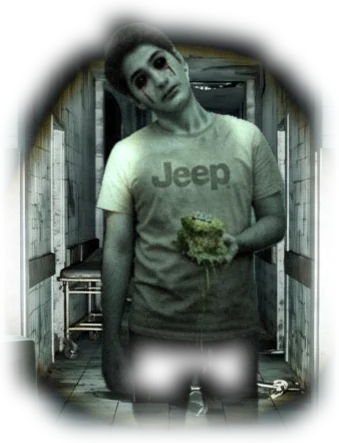
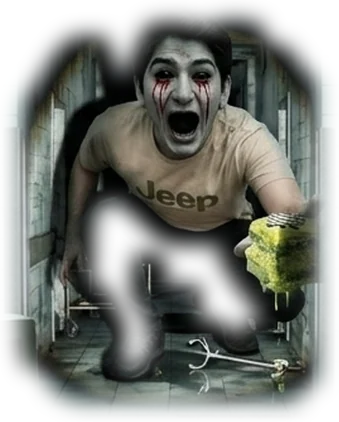
Görseller: corr_pasta2 ve corr_pasta3 kemer içinde yeniden üretildi

diff --git a/img/office_v/URETIM_RAPORU_3.md b/img/office_v/URETIM_RAPORU_3.md
@@ -1,8 +1,8 @@
 - `door_avukat`: 2 deneme | değişen alan %8.9 | sorun yok (ilk 16:9 denemesinde kadraj daraldığı için 21:9 ile yeniden üretildi)
 - `vent_sahil`: 1 deneme | değişen alan %4.3 | sorun yok
 - `corr_pasta1`: 1 deneme | değişen alan %8.0 | sorun yok
-- `corr_pasta2`: 2 deneme | değişen alan %9.6 | sorun yok (ilk denemede masaya leke taştığı için yeniden üretildi)
-- `corr_pasta3`: 1 deneme | değişen alan %10.5 | sorun yok
+- `corr_pasta2`: 6 deneme | değişen alan %6.2 | sorun yok (kemer ve fener halkası içinde, koridor ortasında)
+- `corr_pasta3`: 5 deneme | değişen alan %6.1 | sorun yok (kemer ve fener halkası içinde, koridor ön kısmında karanlıkta)
 - `corr_sultan`: 2 deneme | değişen alan %8.5 | sorun yok (ilk denemede far parlaması %16.3 olduğu için yeniden üretildi)
 - `corr_itsme`: 1 deneme | değişen alan %8.0 | sorun yok
 - `img/cam/cold_open.png`: 3 deneme | 640×360 CCTV | ilk 2 deneme güvenlik filtresine takıldı; 3. denemede orta sıra sağ çekmece açık üretildi
